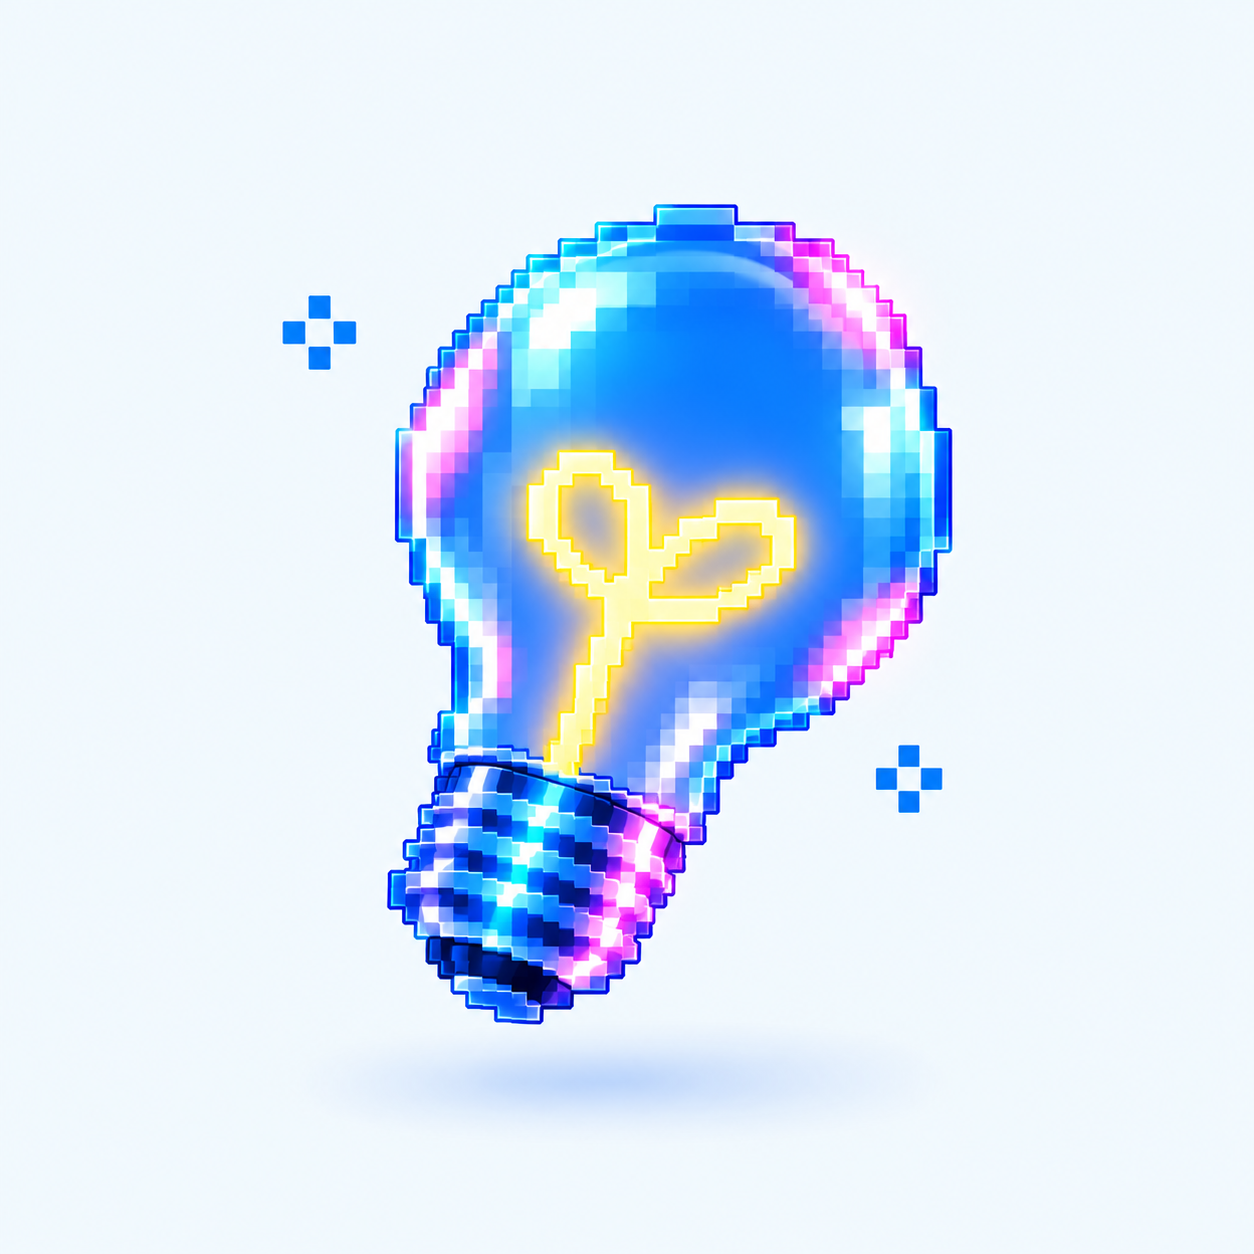
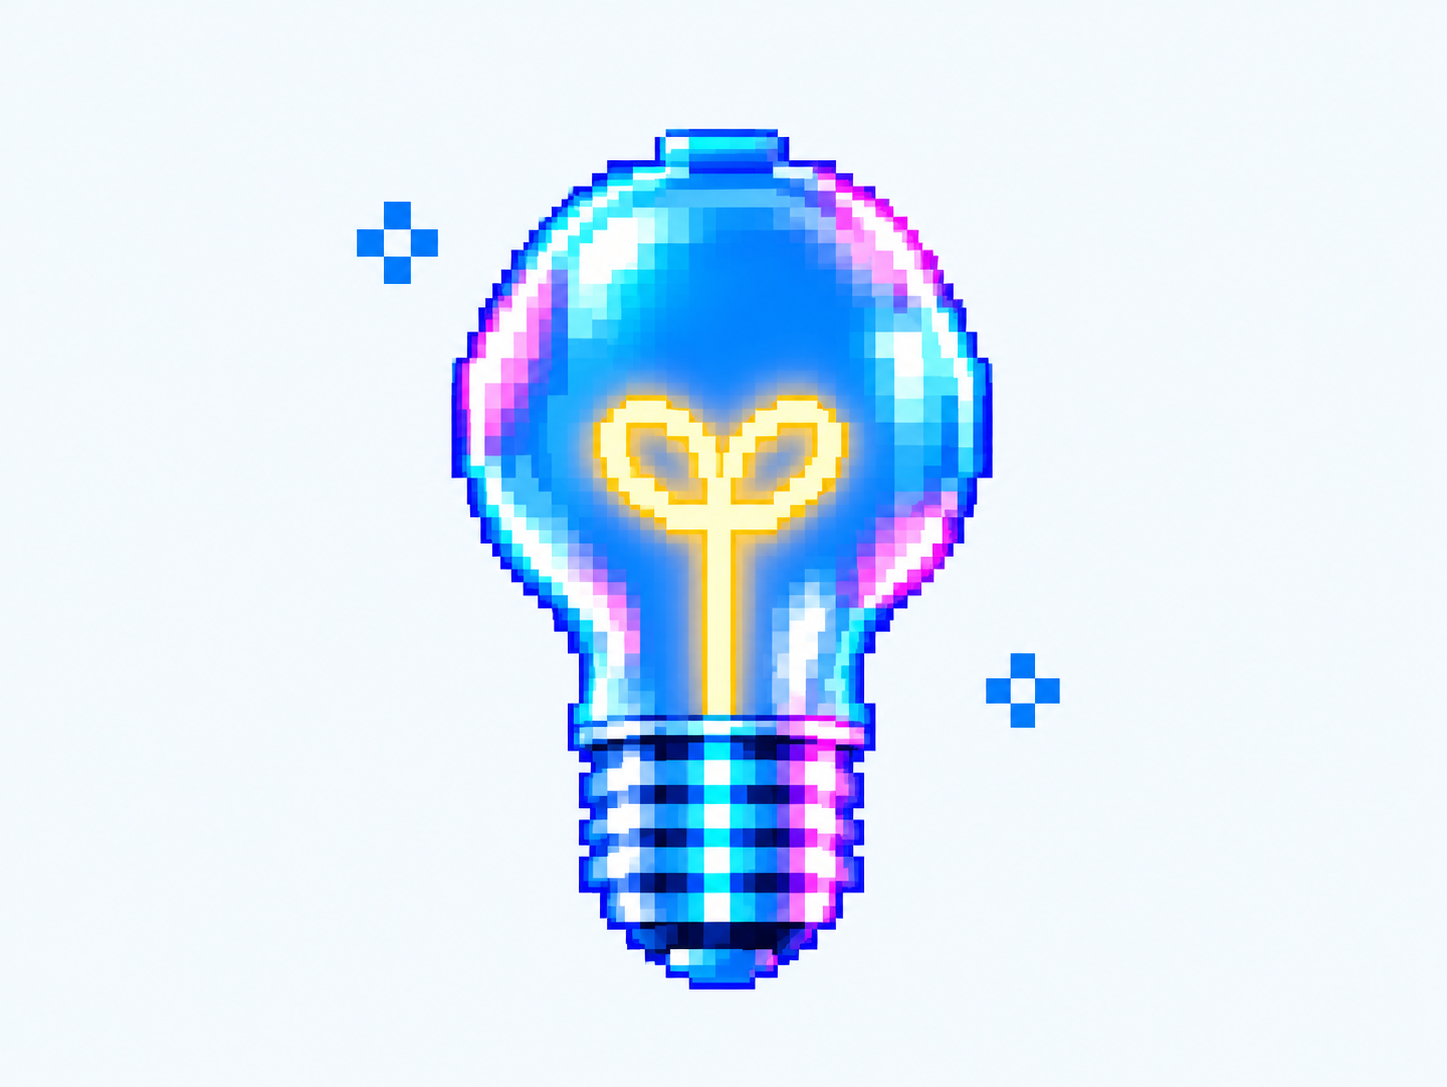
Improve mobile portfolio interactions

Changed region(s): [[0.311, 0.1214, 0.7775, 0.9108], [0.2177, 0.1822, 0.311, 0.3036], [0.6842, 0.5768, 0.7775, 0.6679]]

diff --git a/src/components/PortfolioSections.module.css b/src/components/PortfolioSections.module.css
@@ -228,33 +228,57 @@
 }
 
 @media (max-width: 700px) {
-  .projectsSection { padding: 0 16px; }
+  .projectsSection { height: auto; padding: 0 16px 20px; }
   .projectsSection .inner {
-    position: sticky;
-    top: var(--header-clearance);
-    display: grid;
-    grid-template-rows: auto minmax(0, 1fr);
-    width: calc(100% + 32px);
-    height: calc(100svh - var(--header-clearance));
+    position: relative;
+    top: auto;
+    display: block;
+    width: 100%;
+    height: auto;
     min-height: 0;
-    margin-inline: -16px;
-    padding-inline: 16px;
+    margin-inline: 0;
+    padding-inline: 0;
   }
   .sectionHeading {
     position: relative;
     z-index: 3;
     top: auto;
     gap: 22px;
-    margin: 0 -16px 8px;
-    padding: 16px 16px 12px;
+    margin: 0 0 20px;
+    padding: 20px 0 12px;
     background: var(--background);
   }
   .title { font-size: var(--editorial-heading-size); }
   .lede { font-size: 13px; }
   .projectGrid {
-    padding: 6px 0 16px;
+    display: flex;
+    flex-direction: row;
+    justify-content: flex-start;
+    gap: 16px;
+    height: auto;
+    padding: 6px 18px 20px 4px;
+    overflow-x: auto;
+    overflow-y: hidden;
+    overscroll-behavior-inline: contain;
+    scroll-padding-inline: 4px;
+    scroll-snap-type: x mandatory;
+    touch-action: pan-x;
   }
-  .projectReveal { top: clamp(-38px, calc(640px - 100svh), -8px); width: calc(100% - 8px); height: min(100%, clamp(320px, 47svh, 420px)); margin-inline: 0; }
+  .projectReveal {
+    flex: 0 0 clamp(240px, 72vw, 290px);
+    grid-area: auto;
+    top: auto;
+    width: clamp(240px, 72vw, 290px);
+    height: clamp(280px, 88vw, 340px);
+    margin-inline: 0;
+    opacity: 1 !important;
+    filter: none !important;
+    transform: none !important;
+    pointer-events: auto !important;
+    scroll-snap-align: start;
+    scroll-snap-stop: always;
+    will-change: auto;
+  }
   .project { padding: 16px; box-shadow: 5px 5px 0 var(--blue); }
   .project[data-project-index="01"] { background-position: 74% center; }
   .project[data-project-index="02"] { background-position: 70% 70%; }

diff --git a/src/components/AboutSection.tsx b/src/components/AboutSection.tsx
@@ -169,8 +169,12 @@ export default function AboutSection() {
   const mobileTrackRef = useRef<HTMLDivElement>(null);
   const desktopProgress = useStoryScrollProgress();
   const { scrollYProgress: mobileProgress } = useScroll({ target: mobileTrackRef, offset: ["start start", "end end"] });
+  const { scrollYProgress: entryProgress } = useScroll({ target: sectionRef, offset: ["start end", "start start"] });
   const { scrollYProgress: exitProgress } = useScroll({ target: sectionRef, offset: ["end end", "end start"] });
+  const entryOpacity = useTransform(entryProgress, [0, 0.5, 1], [0, 0, 1]);
+  const entryScale = useTransform(entryProgress, [0, 1], [0.965, 1]);
   const exitOpacity = useTransform(exitProgress, [0, 0.08, 0.7, 1], [1, 1, 0, 0]);
+  const mobileStageOpacity = useTransform(() => entryOpacity.get() * exitOpacity.get());
   const progress = useMotionValue(0);
   const [activeChapter, setActiveChapter] = useState(0);
   const [desktopLayout, setDesktopLayout] = useState(false);
@@ -202,7 +206,13 @@ export default function AboutSection() {
     <section className={styles.section} id="about" aria-labelledby="about-heading" ref={sectionRef}>
       <h2 className={styles.srOnly} id="about-heading">About Marcella Moussa</h2>
       <div className={styles.mobileTrack} ref={mobileTrackRef} aria-hidden="true" />
-      <motion.div className={styles.stage} style={{ opacity: desktopLayout ? 1 : exitOpacity }}>
+      <motion.div
+        className={styles.stage}
+        style={{
+          opacity: desktopLayout ? 1 : mobileStageOpacity,
+          scale: desktopLayout || reducedMotion ? 1 : entryScale,
+        }}
+      >
         <div className={styles.visualPanel} aria-hidden="true">
           {chapters.map((chapter, index) => (
             <ChapterVisual key={chapter.eyebrow} index={index} progress={progress} reducedMotion={reducedMotion} />

diff --git a/src/components/AboutSection.module.css b/src/components/AboutSection.module.css
@@ -179,17 +179,30 @@
 @media (max-width: 700px) {
   .section { height: 480svh; }
   .mobileTrack { height: 400svh; }
-  .stage { grid-template-columns: 1fr; grid-template-rows: 50% 50%; }
+  .stage {
+    grid-template-columns: 1fr;
+    grid-template-rows: 46% 54%;
+    background: #f4faff;
+  }
+  .visualPanel,
+  .contentPanel { background: #f4faff; }
+  .visualScene { background-color: #f4faff; }
+  .chapterImage { object-fit: cover; }
   .portraitFrame { max-width: min(46%, 190px); height: 64%; padding: 8px 8px 30px; }
-  .sectionLabel { margin-bottom: 22px; font-size: 10px; }
-  .contentScene { padding: 16px 24px; }
-  .chapterOverline { margin-bottom: 20px; font-size: 9px; }
+  .sectionLabel { display: none; }
+  .contentScene {
+    justify-content: flex-start;
+    align-items: center;
+    padding: clamp(12px, 2svh, 18px) 22px 16px;
+    text-align: center;
+  }
+  .chapterOverline { margin-bottom: 10px; font-size: 9px; letter-spacing: 0.2em; }
   .introGreeting { font-size: 14px; }
   .chapterTitle { font-size: var(--editorial-heading-size); }
-  .chapterDescription { margin-top: 18px; font-size: 13px; line-height: 1.48; }
-  .chapterDetail { margin-top: 18px; font-size: 8px; }
-  .tags { gap: 5px; margin-top: 10px; }
-  .tags li { padding: 5px 6px; font-size: 7px; }
+  .chapterDescription { max-width: 350px; margin-top: 20px; font-size: 12px; line-height: 1.55; }
+  .chapterDetail { margin-top: 20px; font-size: 8px; letter-spacing: 0.16em; }
+  .tags { display: grid; grid-template-columns: repeat(3, minmax(0, 1fr)); gap: 8px; width: 100%; margin-top: 18px; }
+  .tags li { display: grid; min-height: 42px; padding: 6px 4px; place-items: center; font-size: 7px; }
 }
 
 @media (max-width: 700px) and (max-height: 700px) {

diff --git a/src/components/CinematicSectionStack.tsx b/src/components/CinematicSectionStack.tsx
@@ -90,15 +90,11 @@ function CinematicPanel({
         : [arrivalFadeStart, arrivalEnd, departureStart, departureFadeEnd],
     index === 0 ? [1, 0] : index === sceneStarts.length - 1 ? [0, 1] : [0, 1, 1, 0],
   );
-  const reducedPointerEvents = useTransform(progress, (value) => {
+  const panelPointerEvents = useTransform(progress, (value) => {
     const entered = index === 0 || value >= (arrivalStart + arrivalEnd) / 2;
     const left = index !== sceneStarts.length - 1 && value >= (departureStart + departureEnd) / 2;
     return entered && !left ? "auto" : "none";
   });
-  const aboutPointerEvents = useTransform(
-    progress,
-    (value) => value >= (arrivalStart + arrivalEnd) / 2 ? "auto" : "none",
-  );
   const entryScale = useTransform(
     progress,
     [arrivalStart, arrivalEnd],
@@ -124,13 +120,9 @@ function CinematicPanel({
       style={{
         y,
         opacity: index === 0
-          ? undefined
-          : reducedMotion
-            ? reducedOpacity
-            : index === 1 ? opacity : undefined,
-        pointerEvents: reducedMotion
-          ? reducedPointerEvents
-          : index === 1 ? aboutPointerEvents : undefined,
+          ? reducedMotion ? reducedOpacity : undefined
+          : reducedMotion ? reducedOpacity : opacity,
+        pointerEvents: panelPointerEvents,
         scale: entryScale,
         zIndex: index + 1,
       }}

diff --git a/src/app/globals.css b/src/app/globals.css
@@ -1872,6 +1872,8 @@ button {
     gap: 14px;
     min-height: 52px;
     z-index: 100;
+    background: var(--background);
+    box-shadow: 0 1px 0 rgba(18, 56, 255, 0.12);
   }
 
   body.is-menu-open .site-header {
@@ -2145,7 +2147,7 @@ button {
     left: 50%;
     right: auto;
     width: min(76vw, calc(40svh - 42px), 360px);
-    transform: translateX(-50%);
+    transform: translate(-50%, 1.5cm);
   }
 
   .pink-ticket {
@@ -2162,8 +2164,8 @@ button {
 
   .cursor-sticker {
     top: clamp(176px, calc(20svh + 38px), 216px);
-    right: 0;
-    width: 78px;
+    right: 36px;
+    width: 62px;
   }
 
   .yellow-x {
@@ -2534,8 +2536,8 @@ button {
 
   .cursor-sticker {
     top: 214px;
-    right: 0;
-    width: 66px;
+    right: 36px;
+    width: 53px;
   }
 
   .yellow-x {
@@ -2637,7 +2639,7 @@ button {
 
   .cursor-sticker {
     top: min(24svh, 165px);
-    width: 62px;
+    width: 50px;
   }
 
   .yellow-x {
@@ -2681,7 +2683,7 @@ button {
   .headphones { top: 8px; width: min(60vw, calc(31svh - 20px), 190px); }
   .pink-ticket { top: 0; width: 80px; }
   .neon-face { top: 96px; width: 34px; }
-  .cursor-sticker { top: 105px; width: 55px; }
+  .cursor-sticker { top: 105px; width: 44px; }
   .yellow-x { top: 110px; width: 33px; }
   .music-note { top: 36px; width: 40px; }
   .star-left { top: 65px; width: 22px; }

diff --git a/src/components/CinematicSectionStack.module.css b/src/components/CinematicSectionStack.module.css
@@ -134,7 +134,7 @@
   }
 
   .panel:nth-child(4) {
-    margin-top: calc(var(--header-clearance) - 100svh);
+    margin-top: 0;
   }
 }
 
